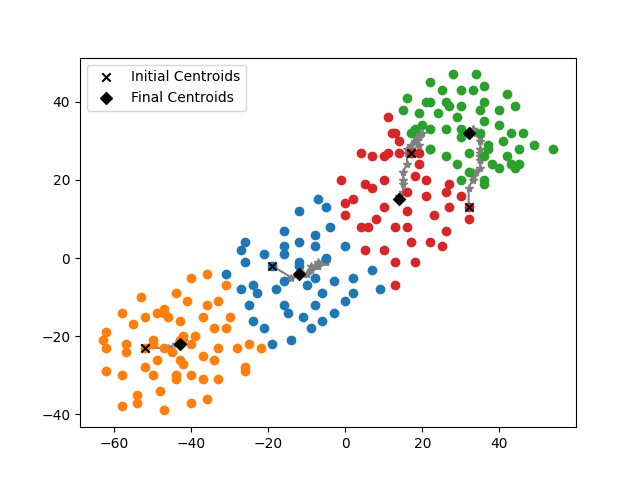
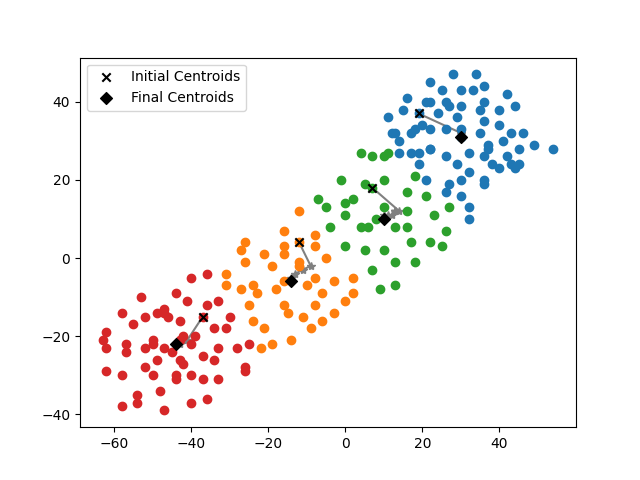
fixed: wrong assignment

Changed region(s): [[0.1562, 0.125, 0.875, 0.875]]

diff --git a/main.py b/main.py
@@ -32,17 +32,28 @@ for i in range(100):
     for _ in range(clusters):
         ks[_] = np.mean(assigned[_], axis=0)
 
+
+# Reassigning points for making points graph-ready
+assigned_final = {k: [] for k in range(clusters)}
+count = 1
+for d in dataset:
+    p = nearest(ks, d)
+    assigned_final[p].append(d)
+    count += 1
+
+
 # Plotting and data visualization
 cluster_centroids = np.array(cluster_centroids)
 for i in range(clusters):
     plt.plot(cluster_centroids[:, i][:, 0],
              cluster_centroids[:, i][:, 1], color='gray', marker='*', zorder=0)
-for a_ in assigned:
-    plt.scatter(np.array(assigned[a_])[:, 0],
-                np.array(assigned[a_])[:, 1], zorder=1)
+for a_ in assigned_final:
+    plt.scatter(np.array(assigned_final[a_])[:, 0],
+                np.array(assigned_final[a_])[:, 1], zorder=1)
 plt.scatter(initial_ks[:, 0], initial_ks[:, 1],
             marker='x', zorder=2, label='Initial Centroids', color='black')
-plt.scatter(ks[:, 0], ks[:, 1], marker='D', zorder=2, label='Final Centroids', color='black')
+plt.scatter(ks[:, 0], ks[:, 1], marker='D', zorder=2,
+            label='Final Centroids', color='black')
 print("The final cluster centroids are: ", ks)
 
 
